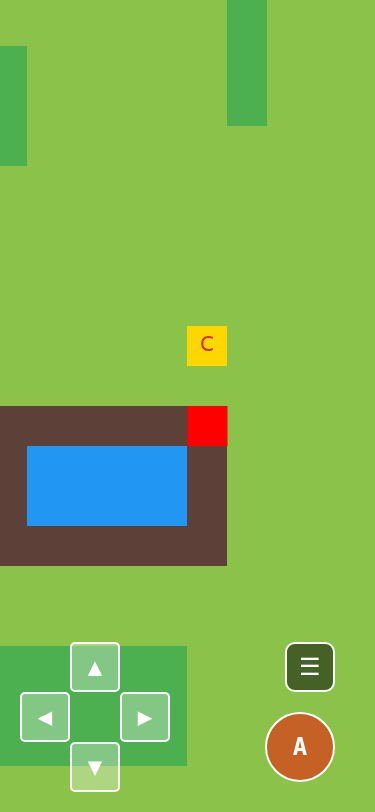
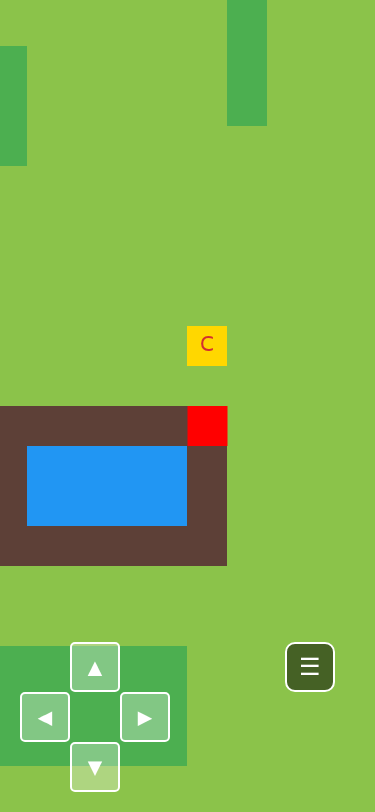
UI Cleanup, XP Animation, and Monster Release feature

Changed region(s): [[0.704, 0.8621, 0.9093, 0.9852]]

diff --git a/js/menu.js b/js/menu.js
@@ -77,25 +77,35 @@ export class MenuSystem {
             const hasPotions = this.game.player.inventory.potions > 0;
 
             if (canHeal && hasPotions) {
-                actionHtml = `<button class="ui-btn btn-blue" style="font-size: 12px; padding: 5px; margin-top: 5px;" data-index="${index}">Heal (Potion)</button>`;
+                actionHtml = `<button class="ui-btn btn-blue btn-heal" style="font-size: 12px; padding: 5px; margin-top: 5px;" data-index="${index}">Heal</button>`;
             } else if (canHeal && !hasPotions) {
                 actionHtml = `<button class="ui-btn" style="font-size: 12px; padding: 5px; margin-top: 5px; opacity: 0.5; cursor: not-allowed;">No Potions</button>`;
             } else {
                 actionHtml = `<button class="ui-btn" style="font-size: 12px; padding: 5px; margin-top: 5px; opacity: 0.5; cursor: not-allowed;">HP Full</button>`;
             }
 
+            // Release button (not for last monster)
+            let releaseHtml = '';
+            if (team.length > 1) {
+                releaseHtml = `<button class="ui-btn btn-red btn-release" style="font-size: 12px; padding: 5px; margin-top: 5px; margin-left: 5px;" data-index="${index}">Release</button>`;
+            }
+
             div.innerHTML = `
                 <div style="color: ${mon.color}; font-weight: bold;">${mon.name} Lv${mon.level}</div>
                 <div style="font-size: 12px;">XP: ${mon.xp}/${mon.maxXp}</div>
                 <div style="font-size: 14px;">HP: ${mon.currentHp}/${mon.maxHp}</div>
-                ${actionHtml}
+                <div style="display:flex;">
+                    ${actionHtml}
+                    ${releaseHtml}
+                </div>
             `;
 
-            // Add click listener for the button
-            const btn = div.querySelector('button');
-            if (btn) {
-                btn.addEventListener('click', () => this.healMonster(index));
-            }
+            // Add click listeners
+            const healBtn = div.querySelector('.btn-heal');
+            if (healBtn) healBtn.addEventListener('click', () => this.healMonster(index));
+
+            const releaseBtn = div.querySelector('.btn-release');
+            if (releaseBtn) releaseBtn.addEventListener('click', () => this.releaseMonster(index));
 
             container.appendChild(div);
         });
@@ -110,6 +120,20 @@ export class MenuSystem {
             mon.currentHp = Math.min(mon.currentHp + 20, mon.maxHp);
 
             // Re-render to show updates
+            const content = document.getElementById('submenu-content');
+            content.innerHTML = '';
+            this.renderTeam(content);
+        }
+    }
+
+    releaseMonster(index) {
+        const team = this.game.player.team;
+        const mon = team[index];
+
+        if (confirm(`Are you sure you want to release ${mon.name}?`)) {
+            team.splice(index, 1);
+
+            // Re-render
             const content = document.getElementById('submenu-content');
             content.innerHTML = '';
             this.renderTeam(content);

diff --git a/js/battle.js b/js/battle.js
@@ -12,7 +12,23 @@ export class BattleSystem {
         this.log = []; // Battle log messages
         this.turn = 0; // 0 = Player, 1 = Enemy
 
+        this.visualXp = 0; // For animation
+        this.targetXp = 0;
+
         this.initUI();
+    }
+
+    update(deltaTime) {
+        if (!this.playerMon) return;
+
+        // Animate XP
+        if (Math.abs(this.visualXp - this.targetXp) > 0.1) {
+            // Lerp speed
+            const diff = this.targetXp - this.visualXp;
+            this.visualXp += diff * 0.05; // simple smoothing
+        } else {
+            this.visualXp = this.targetXp;
+        }
     }
 
     initUI() {
@@ -94,6 +110,11 @@ export class BattleSystem {
 
     switchPokemon(newMon) {
         this.playerMon = newMon;
+
+        // Reset XP bars for new mon
+        this.visualXp = this.playerMon.xp;
+        this.targetXp = this.playerMon.xp;
+
         this.log.push(`Go! ${newMon.name}!`);
         this.updateLogUI();
         // Switching takes a turn
@@ -122,6 +143,10 @@ export class BattleSystem {
             // Fallback starter if team is empty
             this.playerMon = new Monster({ name: 'Partner', color: '#ffd700', hp: 25, attack: 4 }, 1);
         }
+
+        // Init XP
+        this.visualXp = this.playerMon.xp;
+        this.targetXp = this.playerMon.xp;
 
         this.log.push(`Go! ${this.playerMon.name}!`);
         this.turn = 0; // Player starts
@@ -253,6 +278,8 @@ export class BattleSystem {
             const xpAmount = 20 * this.enemy.level;
             const leveledUp = this.playerMon.gainXp(xpAmount);
 
+            this.targetXp = this.playerMon.xp;
+
             this.log.push(`Won! Gained ${xpAmount} XP.`);
             if (leveledUp) {
                  this.log.push(`Leveled up to ${this.playerMon.level}!`);
@@ -337,7 +364,8 @@ export class BattleSystem {
         ctx.fillRect(playerX + 70, playerY + 45, 100, 5);
 
         // XP Bar Fill
-        const xpRatio = this.playerMon.xp / this.playerMon.maxXp;
+        // Use visualXp instead of raw xp
+        const xpRatio = Math.min(1, Math.max(0, this.visualXp / this.playerMon.maxXp));
         ctx.fillStyle = '#00bcd4'; // Cyan
         ctx.fillRect(playerX + 70, playerY + 45, 100 * xpRatio, 5);
 

diff --git a/style.css b/style.css
@@ -124,24 +124,6 @@ canvas {
     background: rgba(0, 0, 0, 0.8);
 }
 
-#action-btn {
-    width: 70px;
-    height: 70px;
-    background: rgba(255, 0, 0, 0.5);
-    border: 2px solid white;
-    border-radius: 50%;
-    display: flex;
-    justify-content: center;
-    align-items: center;
-    font-size: 24px;
-    font-weight: bold;
-    cursor: pointer;
-}
-
-#action-btn:active {
-    background: rgba(255, 0, 0, 0.8);
-}
-
 /* Generic UI Buttons */
 .ui-btn {
     display: block;

diff --git a/js/main.js b/js/main.js
@@ -84,6 +84,7 @@ export class Game {
             }
         } else if (this.state === 'BATTLE') {
             // Input is now handled by DOM buttons in BattleSystem
+            this.battle.update(deltaTime);
         } else if (this.state === 'MENU') {
             // Input is now handled by DOM buttons in MenuSystem
         }

diff --git a/index.html b/index.html
@@ -27,7 +27,6 @@
                 </div>
                 <div id="action-area">
                     <div id="menu-btn">☰</div>
-                    <div id="action-btn">A</div>
                 </div>
             </div>
 
